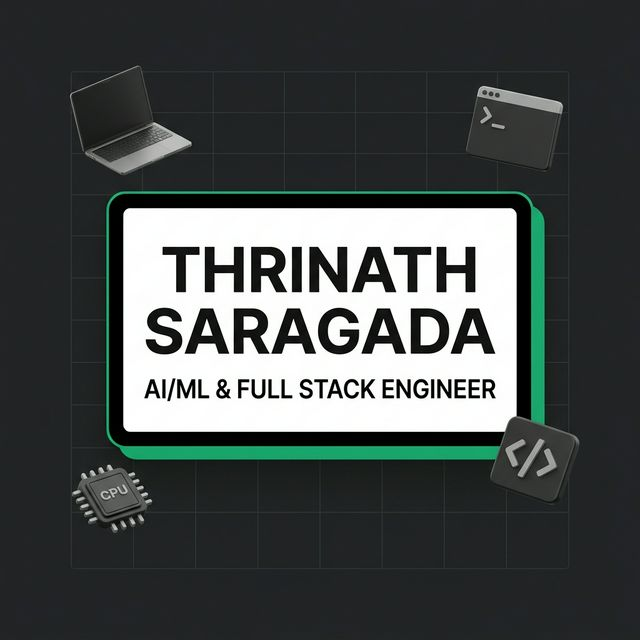
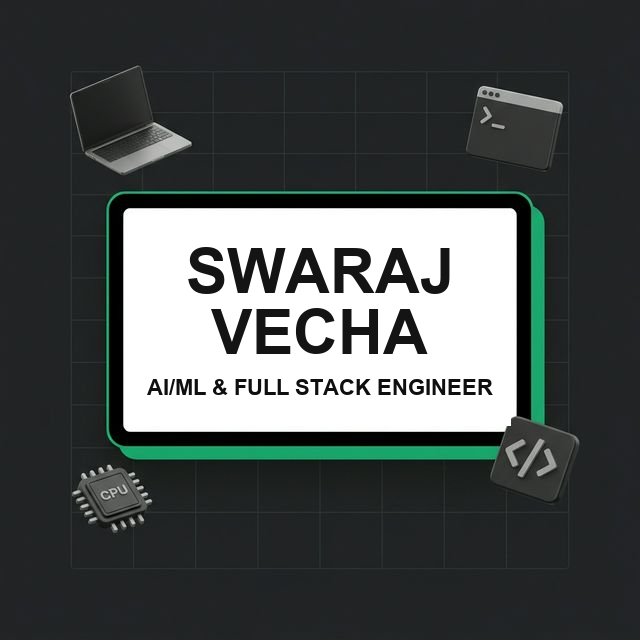
feat: update OpenGraph and Twitter meta tags with custom domain assets

Changed region(s): [[0.2188, 0.375, 0.7812, 0.5625], [0.2188, 0.5938, 0.7812, 0.625]]

diff --git a/index.html b/index.html
@@ -15,13 +15,23 @@
     <meta property="og:title" content="Swaraj Vecha | AI/ML & Full Stack Engineer" />
     <meta property="og:description" content="Engineering scalable full-stack web applications, AI/ML models, RESTful microservices, and automated cloud infrastructure." />
     <meta property="og:site_name" content="Swaraj Vecha" />
-    <!-- Cloud CDN Favicon & Social Image Assets -->
-    <meta property="og:image" content="https://raw.githubusercontent.com/Swarajbabu/portfolio/main/public/og-social.png" />
-    <meta property="twitter:image" content="https://raw.githubusercontent.com/Swarajbabu/portfolio/main/public/og-social.png" />
+    <meta property="og:image" content="https://swarajvecha.in/og-social.png" />
+    <meta property="og:image:secure_url" content="https://swarajvecha.in/og-social.png" />
+    <meta property="og:image:type" content="image/png" />
+    <meta property="og:image:width" content="640" />
+    <meta property="og:image:height" content="640" />
+    <meta property="og:image:alt" content="Swaraj Vecha | AI/ML & Full Stack Engineer" />
+
+    <!-- Twitter / X -->
+    <meta name="twitter:card" content="summary_large_image" />
+    <meta name="twitter:url" content="https://swarajvecha.in/" />
+    <meta name="twitter:title" content="Swaraj Vecha | AI/ML & Full Stack Engineer" />
+    <meta name="twitter:description" content="Engineering scalable full-stack web applications, AI/ML models, RESTful microservices, and automated cloud infrastructure." />
+    <meta name="twitter:image" content="https://swarajvecha.in/og-social.png" />
     
     <link rel="icon" type="image/svg+xml" href="/favicon.svg" />
     <link rel="apple-touch-icon" href="/favicon.svg" />
-    <link rel="alternate icon" href="https://raw.githubusercontent.com/Swarajbabu/portfolio/main/public/favicon.svg" />
+    <link rel="alternate icon" href="https://swarajvecha.in/favicon.svg" />
 
     <script type="application/ld+json">
     {
